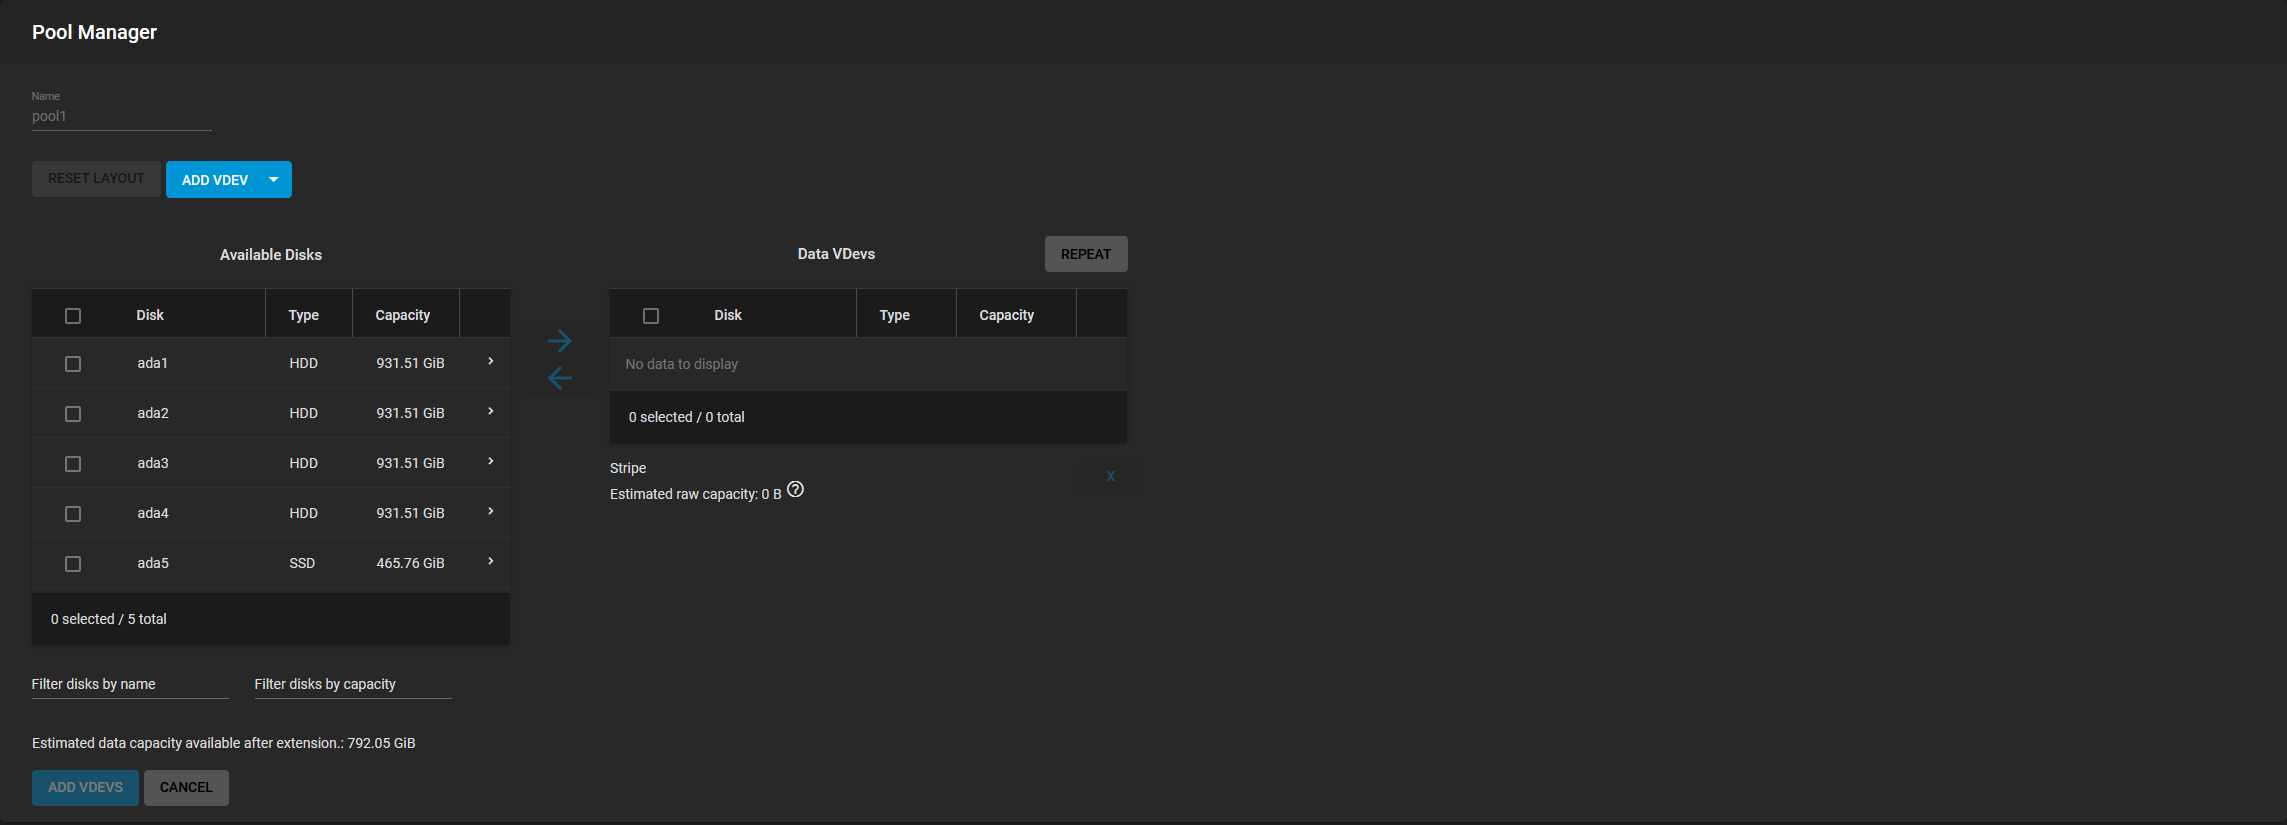
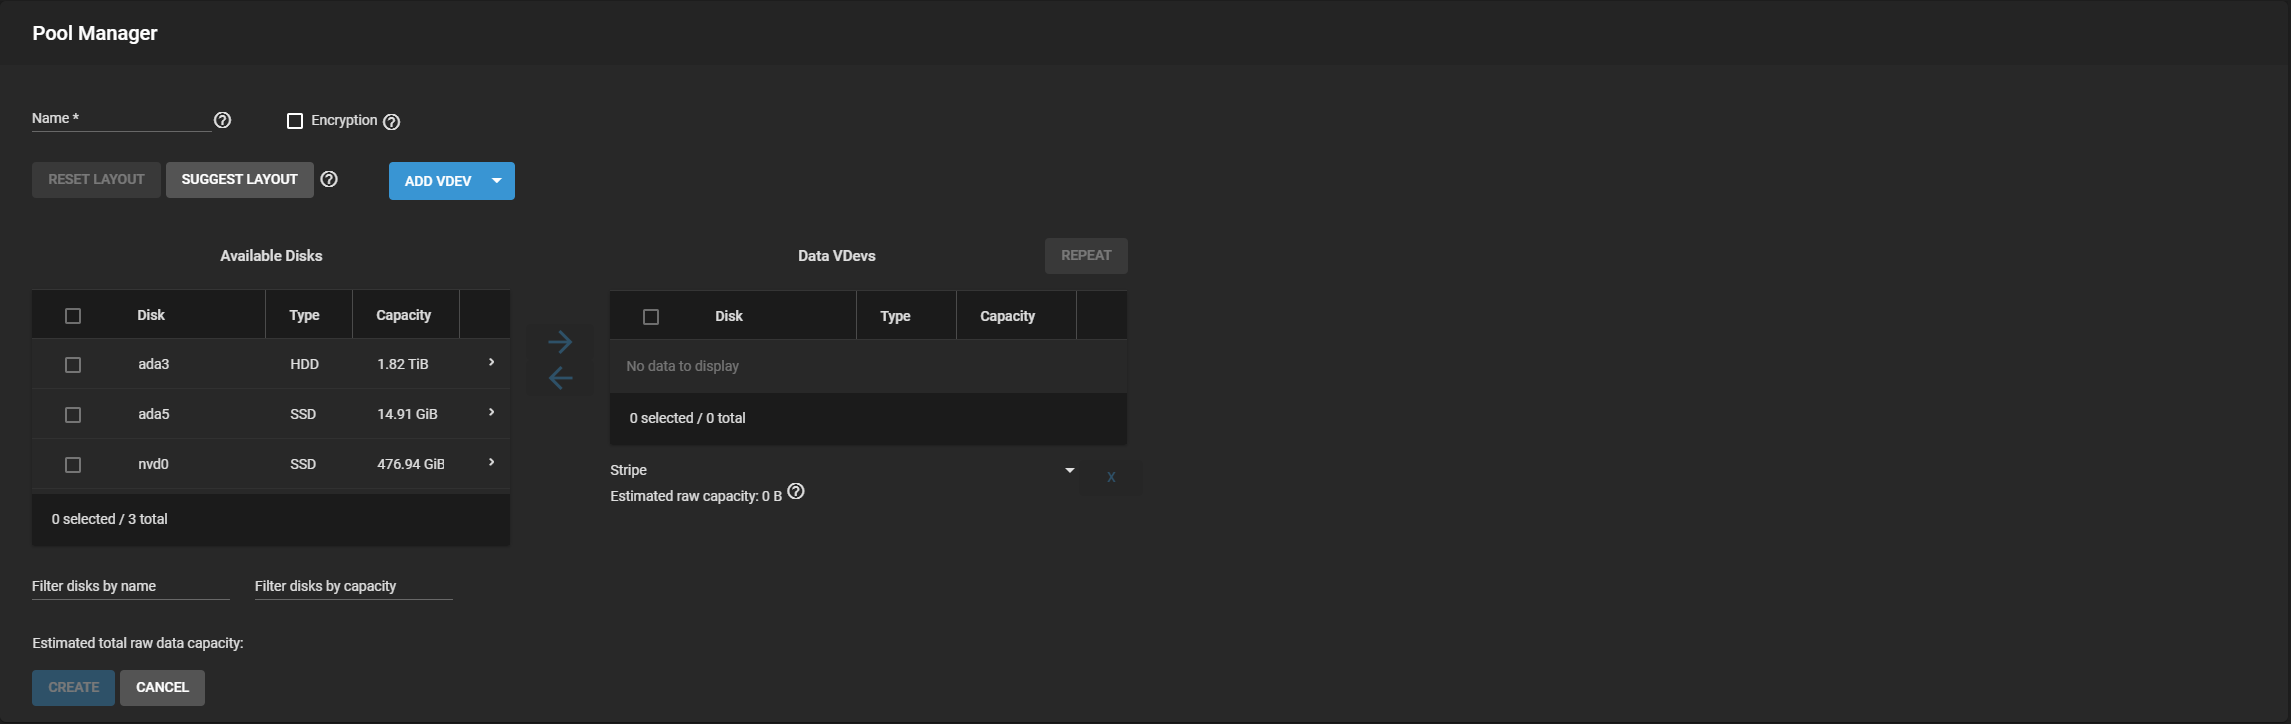
DOCS-1724: Continue reworking Storage content - Heavy reworks to the Pool Creation article - Split off the Import instructions into a separate article for better digestion.

diff --git a/content/CORE/Storage/Pools/PoolCreate.md b/content/CORE/Storage/Pools/PoolCreate.md
@@ -1,35 +1,96 @@
 ---
-title: "Pool Creation Overview"
+title: "Pool Creation"
 weight: 10
 ---
 
-TrueNAS uses ZFS data storage pools to efficiently store and protect your information. 
-Storage pools are collections of attached drives that are organized into virtual devices (vdevs). 
-Data in a storage pool is periodically reviewed and “healed” whenever a bad block is discovered. 
-Drives can be arranged inside vdevs to provide varying amounts of redundancy, which prevents catastrophic data loss in the event a drive fails. 
-Pools also support additional features to help maximize the read and write performance of data.
+{{< toc >}}
 
-Before creating a storage pool, we recommended you review the available system resources and plan out your specific use case. 
-If you’re storing critical information, more drives may be needed to provide redundancy. 
-If you need to maximize the total available storage at the expense of redundancy or performance, you can use additional SSD drives to maximize pool performance. 
+TrueNAS uses ZFS data storage "pools" to efficiently store and protect data.
+
+{{< expand "What's a pool?" "v" >}}
+Storage pools are attached drives organized into virtual devices (vdevs).
+ZFS and TrueNAS periodically reviews and “heals” whenever a bad block is discovered in a pool.
+Drives are arranged inside vdevs to provide varying amounts of redundancy and performance.
+This allows for high performance pools, pools that maximize data lifetime, and all situations in between
+{{< /expand >}}
+
+## Review Storage Needs
+
+It is strongly recommended to review the available system resources and plan the storage use case before creating a storage pool.
+* When storing critical information, more drives allocated to the pool increases redundancy.
+* Maximizing total available storage at the expense of redundancy or performance means allocating large volume disks and configuring the pool for minimal redundancy.
+* Maximizing pool performance means installing and allocating high-speed SSD drives to the pool.
+
 Determining your specific storage requirements is a critical step before creating a pool.
 
-## Creating a new Pool
+## Creating a Pool
 
-To create a new pool, log in to the web interface, go to **Storage > Pools**, and click **ADD**.
-Select *Create new pool* and click **CREATE POOL** to open the **Pool Manager**.
+To create a new pool, go to **Storage > Pools** and click *ADD*.
+Select *Create new pool* and click *CREATE POOL* to open the **Pool Manager**.
 
-<img src="/images/PoolManager.png">
-<br><br>
+![StoragePoolsAddCreateManager](/images/CORE/12.0/StoragePoolsAddCreateManager.png "TrueNAS Pool Manager")
 
-First, enter a name for the pool.
-If you want to encrypt the data for additional security, select *Encryption*.
-Be aware that encrypting also complicates how data is retrieved and has some risks. Refer to the [Encryption article](/CORE/Storage/DataPools/encryption/) for more details.
+To begin, enter a pool *Name*.
 
-Now you will configure the virtual devices (vdevs) that make up the pool.
-Click **SUGGEST LAYOUT** to add all same-sized disks in an ideal configuration for balanced data redundancy and performance.
-To manually add disks in a vdev, select the disks to add and click <i class="fas fa-arrow-right" aria-hidden="true" title="Right Arrow"></i>.
-To see more details about a disk, click the `>` in a disk's row.
+{{< expand "Encryption?" "v" >}}
+Encryption algorithms are available as an option for maximizing data security.
+This also complicates how data is retrieved and risks permanent data loss!
+Refer to the [Encryption article](/CORE/Storage/Pools/Encryption/) for more details and decide if encryption is necessary for your use case before setting any *Encryption* options.
+{{< /expand >}}
+
+Next, configure the virtual devices (vdevs) that make up the pool.
+
+### Suggested Layout
+
+Clicking *SUGGEST LAYOUT* allows TrueNAS to review all available disks and populate the primary *Data* vdev with identically sized drives in a balanced configuration between storage capacity and data redundancy.
+To clear the suggestion, click *RESET LAYOUT*.
+
+To manually configure the pool, add vdevs according to your use case.
+Set the **Disk** boxes and click the <i class="fa fa-arrow-right" aria-hidden="true" title="Right Arrow"></i> to move the disks into a vdev.
+
+### Vdev Types
+
+Pools have many different kinds of vdevs available.
+These store data or enable unique features for the pool:
+
+{{< tabs "Vdev Types" >}}
+{{< tab "Data" >}}
+Standard vdev for primary storage operations.
+Each storage pool requires at least one *Data* vdev.
+*Data* vdev configuration typically affects how the other kinds of vdevs are configured.
+{{< /tab >}}
+{{< tab "Cache" >}}
+[ZFS L2ARC](/references/l2arc/) read-cache used with fast devices to accelerate read operations.
+This can be added or removed after creating the pool.
+{{< /tab >}}
+{{< tab "Log" >}}
+[ZFS LOG](/references/slog/) device that improves synchronous write speeds.
+This can be added or removed after creating the pool.
+{{< /tab >}}
+{{< tab "Hot Spare" >}}
+Drives reserved for inserting into *Data* vdevs when an active drive fails.
+Hot spares are temporarily used as replacements for failed drives to prevent larger pool and data loss scenarios.
+
+When a failed drive is replaced with a new drive, the hot spare reverts to an inactive state and is available again as a hot spare.
+
+When the failed drive is only detached from the pool, the temporary hot spare is promoted to a full *Data* vdev member and is no longer available as a hot spare.
+{{< /tab >}}
+{{< tab "Metadata" >}}
+Special Allocation class used to create [Fusion Pools](/core/storage/pools/fusionpool/) for increased metadata and small block I/O performance.
+{{< /tab >}}
+{{< tab "Dedup" >}}
+Stores [ZFS de-duplication](/references/zfsdeduplication/) tables.
+Requires allocating X GiB for every X TiB of general storage.
+Example: 1 GiB of *Dedup* vdev capacity for every 1 TiB of *Data* vdev availability
+{{< /tab >}}
+{{< /tabs >}}
+
+To add a different vdev type during pool creation, click *ADD VDEV* and select the type.
+Select disks from `Available Disks` and use the <i class="fa fa-arrow-right" aria-hidden="true" title="Right Arrow"></i> (right arrow) next to the new **VDev** to add it to that section.
+
+### Vdev Layout
+
+By default, a single 
 
 The pool manager suggests a vdev layout based on the number of disks added to the vdev.
 For example, if two disks are added, TrueNAS automatically configures the vdev as a *mirror*, where the total available storage is the size of one added disk while the other disk provides redundancy.
@@ -43,6 +104,11 @@ To change the vdev layout, open the *Data VDevs* list and select the desired lay
 
 **We never recommend using a Stripe to store critical data, since a single disk failure could result in losing all data in that vdev.**
 
+To manually add disks in a vdev, select the disks to add and click <i class="fa fa-arrow-right" aria-hidden="true" title="Right Arrow"></i>.
+To see more details about a disk, click the `>` in a disk's row.
+
+Click *SUGGEST LAYOUT* to add all the same-sized disks in an ideal configuration for balanced data redundancy and performance.
+
 A vdev layout can be duplicated by clicking *REPEAT*.
 If more disks are available and equal in size, the *REPEAT* button creates another vdev with an identical configuration called a "mirror" of vdevs.
 Otherwise, another vdev can be added by clicking *ADD DATA* and adding disks manually.
@@ -54,86 +120,4 @@ For example, *Pool1* has a data vdev in a *mirror* layout, so create *pool2* for
 
 ![Storage Pools Add Create Mirror](/images/CORE/12.0/StoragePoolsAddCreateMirror.png "Storage Pools Add Create Mirror")
 <br>
-{{< /hint >}}
-
-### Additional Vdev Types
-
-There are several vdev types that you can use to add features to the pool:
-
-* *Cache*: ZFS L2ARC read-cache that can be used with fast devices to accelerate read operations. Optional vdev that is removable after pool creation.
-* *Log*: ZFS LOG device that can improve speeds of synchronous writes. Optional write-cache that is removable after pool creation.
-* *Hot Spare*: Drive reserved for inserting into DATA pool vdevs when an active drive has failed.
-  The hot spare is temporarily used as a replacement for the failed drive to prevent a larger pool and data loss scenario.
-  If the failed drive in the pool is replaced with a new drive, the hot spare reverts to an inactive state and is available again as a hot spare.
-  If the failed drive is detached from the pool, the temporary spare is promoted to a full member of the pool and will no longer be available as a hot spare.
-* *Metadata*: Special Allocation class used to create [Fusion pools](/CORE/Storage/DataPools/fusion-pool/). Optional vdev type used to speed up metadata and small block I/O.
-* *Dedup*: Stores de-duplication tables. These vdevs must be sized to X GiB for X TiB of general storage.
-
-You can add an SSD cache or log device during or after pool creation to improve pool performance under specific use cases.
-Before adding a cache or log device, refer to the [ZFS Primer](/Reference/ZFS-references/) to determine if the system will benefit or suffer from adding the device.
-
-To add a different vdev type during pool creation, click **ADD VDEV** and select the type from the drop down.
-Select disks from `Available Disks` and use the <i class="fas fa-arrow-right" aria-hidden="true" title="Right Arrow"></i> (right arrow) next to the new **VDev** to add it to that section.
-
-## Importing a Pool
-
-A pool that has been exported/disconnected from the system can be reconnected by clicking **Storage** > **Pools** > **Add**, then selecting **Import an existing pool**. Importing works for pools that were exported/disconnected from the current system, created on another system, and pools that need to be reconnected after reinstalling or upgrading to the TrueNAS system.
-
-When physically installing ZFS pool disks from another system, use the `zpool export poolname` command in the command line or a web interface equivalent to export the pool on that system. Then, shut it down and connect the drives to the TrueNAS system. Shutting down the other system prevents an *“in use by another machine”* error during the import to TrueNAS.
-
-### Importing Encrypted ZFS Pools
-
-You can import existing ZFS pools by clicking **Storage** > **Pools** > **ADD**. Select **Import an existing pool**, then click **NEXT**.
-
-![Storage Pools Add Import](/images/CORE/12.0/StoragePoolsAddImport.png "Storage Pools Add Import")
-<br><br>
-
-Select **No, continue with import**, then click **NEXT**.
-
-<img src="/images/ZFS-NoContinueWithImport.png">
-<br><br>
-
-Click the drop down menu and choose the ZFS pool that you want to decrypt, then click **NEXT**.
-
-![StoragePoolsAddImportGELIPresentDecryptPool](/images/CORE/12.0/StoragePoolsAddImportGELIPresentDecryptPool.png "StoragePoolsAddImportGELIPresentDecryptPool")
-<br><br>
-
-Review the Pool Import Summary and click **IMPORT**, then click **CONTINUE** to unlock the pool’s encrypted datasets.
-
-![StoragePoolsAddImportGELIPresentDecryptPoolSummary](/images/CORE/12.0/StoragePoolsAddImportGELIPresentDecryptPoolSummary.png "StoragePoolsAddImportGELIPresentDecryptPoolSummary")
-<br><br>
-
-Click **Choose File** and open the encryption key file, then enter the **Passphrase** (if applicable) for the encrypted disks and click **SUBMIT**. Click **CONTINUE** to unlock the datasets.
-
-<img src="/images/ZFS-OpenTheEencryptionKeyFile.png">
-<br><br>
-
-### Importing Encrypted GELI Pools
-
-You can import existing GELI pools from FreeNAS/TrueNAS 11.3 or earlier by clicking **Storage** > **Pools** > **ADD**. Select **Import an existing pool**, then click **NEXT**.
-
-Select **Yes, decrypt the disks** and choose which disks you want to decrypt from the dropdown list.
-
-![StoragePoolsAddImportNoGELI](/images/CORE/12.0/StoragePoolsAddImportNoGELI.png "StoragePoolsAddImportNoGELI")
-<br><br>
-
-Click **Choose File** and open the encryption key file, then enter the **Passphrase** (if applicable) for the encrypted disks and click **NEXT**.
-Select the GELI pool from the Pool dropdown list and click **NEXT**.
-
-![StoragePoolsAddImportGELIPresentDecryptPoolSummary](/images/CORE/12.0/StoragePoolsAddImportGELIPresentDecryptPoolSummary.png "StoragePoolsAddImportGELIPresentDecryptPoolSummary")
-<br><br>
-
-Review the Pool Import Summary and click **IMPORT**.
-
-![StoragePoolsAddImportZFSPoolSummary](/images/CORE/12.0/StoragePoolsAddImportZFSPoolSummary.png "StoragePoolsAddImportZFSPoolSummary")
-<br><br>
-
-## Encryption Keys and Passphrases
-
-{{< hint warning >}}
-The encryption key file and passphrase are required to decrypt the pool. If the pool cannot be decrypted, it cannot be re-imported after a failed upgrade or lost configuration. This means it is very important to save a copy of the key and to remember the passphrase that was configured for the key. Refer to the [Encryption article](/CORE/Storage/DataPools/encryption/) for instructions on managing keys.
-{{< /hint >}}
-
-{{< hint >}}
-For security reasons, encrypted pool keys are not saved in a configuration backup file. When TrueNAS has been installed to a new device and a saved configuration file restored to it, the keys for encrypted disks will not be present, and the system will not request them. To correct this, export the encrypted pool with <i class="fas fa-pen" aria-hidden="true" title="Pen"></i>&nbsp; (Configure) > **Export/Disconnect**, making sure that **Destroy data on this pool?** is not set. Then import the pool again. During the import, the encryption keys can be entered as described above.
 {{< /hint >}}

diff --git a/content/CORE/Storage/Pools/PoolImport.md b/content/CORE/Storage/Pools/PoolImport.md
@@ -1,0 +1,65 @@
+---
+title: "Pool Import"
+weight: 15
+---
+
+## Importing a Pool
+
+A pool that has been exported/disconnected from the system can be reconnected by clicking **Storage** > **Pools** > **Add**, then selecting **Import an existing pool**. Importing works for pools that were exported/disconnected from the current system, created on another system, and pools that need to be reconnected after reinstalling or upgrading to the TrueNAS system.
+
+When physically installing ZFS pool disks from another system, use the `zpool export poolname` command in the command line or a web interface equivalent to export the pool on that system. Then, shut it down and connect the drives to the TrueNAS system. Shutting down the other system prevents an *“in use by another machine”* error during the import to TrueNAS.
+
+### Encrypted ZFS Pools
+
+You can import existing ZFS pools by clicking **Storage** > **Pools** > **ADD**. Select **Import an existing pool**, then click **NEXT**.
+
+![Storage Pools Add Import](/images/CORE/12.0/StoragePoolsAddImport.png "Storage Pools Add Import")
+
+Select **No, continue with import**, then click **NEXT**.
+
+<img src="/images/ZFS-NoContinueWithImport.png">
+
+Click the drop down menu and choose the ZFS pool that you want to decrypt, then click **NEXT**.
+
+![StoragePoolsAddImportGELIPresentDecryptPool](/images/CORE/12.0/StoragePoolsAddImportGELIPresentDecryptPool.png "StoragePoolsAddImportGELIPresentDecryptPool")
+
+
+Review the Pool Import Summary and click **IMPORT**, then click **CONTINUE** to unlock the pool’s encrypted datasets.
+
+![StoragePoolsAddImportGELIPresentDecryptPoolSummary](/images/CORE/12.0/StoragePoolsAddImportGELIPresentDecryptPoolSummary.png "StoragePoolsAddImportGELIPresentDecryptPoolSummary")
+
+
+Click **Choose File** and open the encryption key file, then enter the **Passphrase** (if applicable) for the encrypted disks and click **SUBMIT**. Click **CONTINUE** to unlock the datasets.
+
+<img src="/images/ZFS-OpenTheEencryptionKeyFile.png">
+
+
+### Encrypted GELI Pools
+
+You can import existing GELI pools from FreeNAS/TrueNAS 11.3 or earlier by clicking **Storage** > **Pools** > **ADD**. Select **Import an existing pool**, then click **NEXT**.
+
+Select **Yes, decrypt the disks** and choose which disks you want to decrypt from the dropdown list.
+
+![StoragePoolsAddImportNoGELI](/images/CORE/12.0/StoragePoolsAddImportNoGELI.png "StoragePoolsAddImportNoGELI")
+
+
+Click **Choose File** and open the encryption key file, then enter the **Passphrase** (if applicable) for the encrypted disks and click **NEXT**.
+Select the GELI pool from the Pool dropdown list and click **NEXT**.
+
+![StoragePoolsAddImportGELIPresentDecryptPoolSummary](/images/CORE/12.0/StoragePoolsAddImportGELIPresentDecryptPoolSummary.png "StoragePoolsAddImportGELIPresentDecryptPoolSummary")
+
+
+Review the Pool Import Summary and click **IMPORT**.
+
+![StoragePoolsAddImportZFSPoolSummary](/images/CORE/12.0/StoragePoolsAddImportZFSPoolSummary.png "StoragePoolsAddImportZFSPoolSummary")
+
+
+### Encryption Keys and Passphrases
+
+{{< hint warning >}}
+The encryption key file and passphrase are required to decrypt the pool. If the pool cannot be decrypted, it cannot be re-imported after a failed upgrade or lost configuration. This means it is very important to save a copy of the key and to remember the passphrase that was configured for the key. Refer to the [Encryption article](/CORE/Storage/DataPools/encryption/) for instructions on managing keys.
+{{< /hint >}}
+
+{{< hint >}}
+For security reasons, encrypted pool keys are not saved in a configuration backup file. When TrueNAS has been installed to a new device and a saved configuration file restored to it, the keys for encrypted disks will not be present, and the system will not request them. To correct this, export the encrypted pool with <i class="fas fa-pen" aria-hidden="true" title="Pen"></i>&nbsp; (Configure) > **Export/Disconnect**, making sure that **Destroy data on this pool?** is not set. Then import the pool again. During the import, the encryption keys can be entered as described above.
+{{< /hint >}}

diff --git a/content/CORE/System/Boot/BootPoolMirror.md b/content/CORE/System/Boot/BootPoolMirror.md
@@ -9,7 +9,7 @@ If one of the two devices were to fail, that device is easily detached and repla
 
 View the current boot pool status by going to **System > Boot > ACTIONS > Boot Pool Status**.
 
-![SystemBootBootPoolStatus](images/CORE/12.0/SystemBootBootPoolStatus.png "Boot Pool Status Example")
+![SystemBootBootPoolStatus](/images/CORE/12.0/SystemBootBootPoolStatus.png "Boot Pool Status Example")
 
 On this page you will find the list and status of each boot pool on the system.
 By default, this pool is named **boot-pool**.

diff --git a/content/CORE/Storage/Pools/ManagingPools.md b/content/CORE/Storage/Pools/ManagingPools.md
@@ -1,8 +1,6 @@
 ---
-title: "Managing Existing Pools"
-description: "How to make changes to a data storage pool after it has been created."
-weight: 60
-tags: ["ZFS","zpool"]
+title: "Managing Pools"
+weight: 40
 ---
 
 After creating a data storage pool, there are a variety of options to change the initial configuration of that pool.

diff --git a/content/CORE/Storage/Pools/ExtendPool.md b/content/CORE/Storage/Pools/ExtendPool.md
@@ -1,7 +1,6 @@
 ---
-title: "Extending a Storage Pool"
-description: "How to add additional storage to an existing pool"
-weight: 20
+title: "Extending a Pool"
+weight: 50
 ---
 
 There are numerous options available to TrueNAS users for extending pools within a system.  They are:

diff --git a/content/CORE/Storage/Pools/SLOGOverprovision.md b/content/CORE/Storage/Pools/SLOGOverprovision.md
@@ -1,6 +1,6 @@
 ---
-title: "SLOG Overprovision"
-weight: 80
+title: "SLOG Overprovisioning"
+weight: 60
 ---
 
 Overprovisioning SLOG SSDs can be useful for many different scenarios.

diff --git a/content/CORE/Storage/Pools/StorageEncryption.md b/content/CORE/Storage/Pools/StorageEncryption.md
@@ -1,6 +1,6 @@
 ---
 title: "Storage Encryption"
-weight: 50
+weight: 20
 ---
 
 You can encrypt the root dataset of a new storage pool to further increase data security.

diff --git a/content/CORE/Storage/Pools/FusionPool.md b/content/CORE/Storage/Pools/FusionPool.md
@@ -1,5 +1,5 @@
 ---
-title: "Fusion Pool Creation"
+title: "Fusion Pools"
 weight: 30
 ---
 
